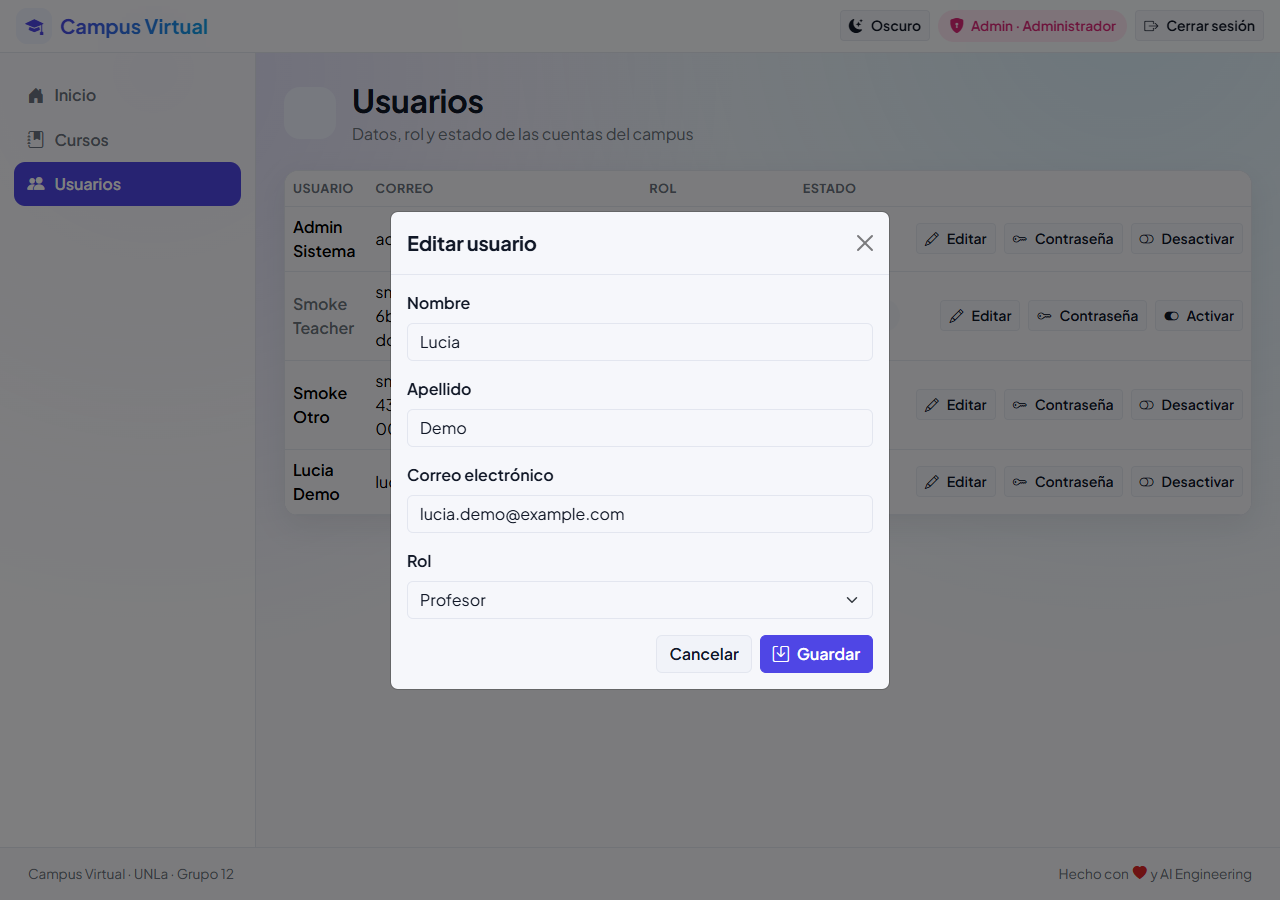
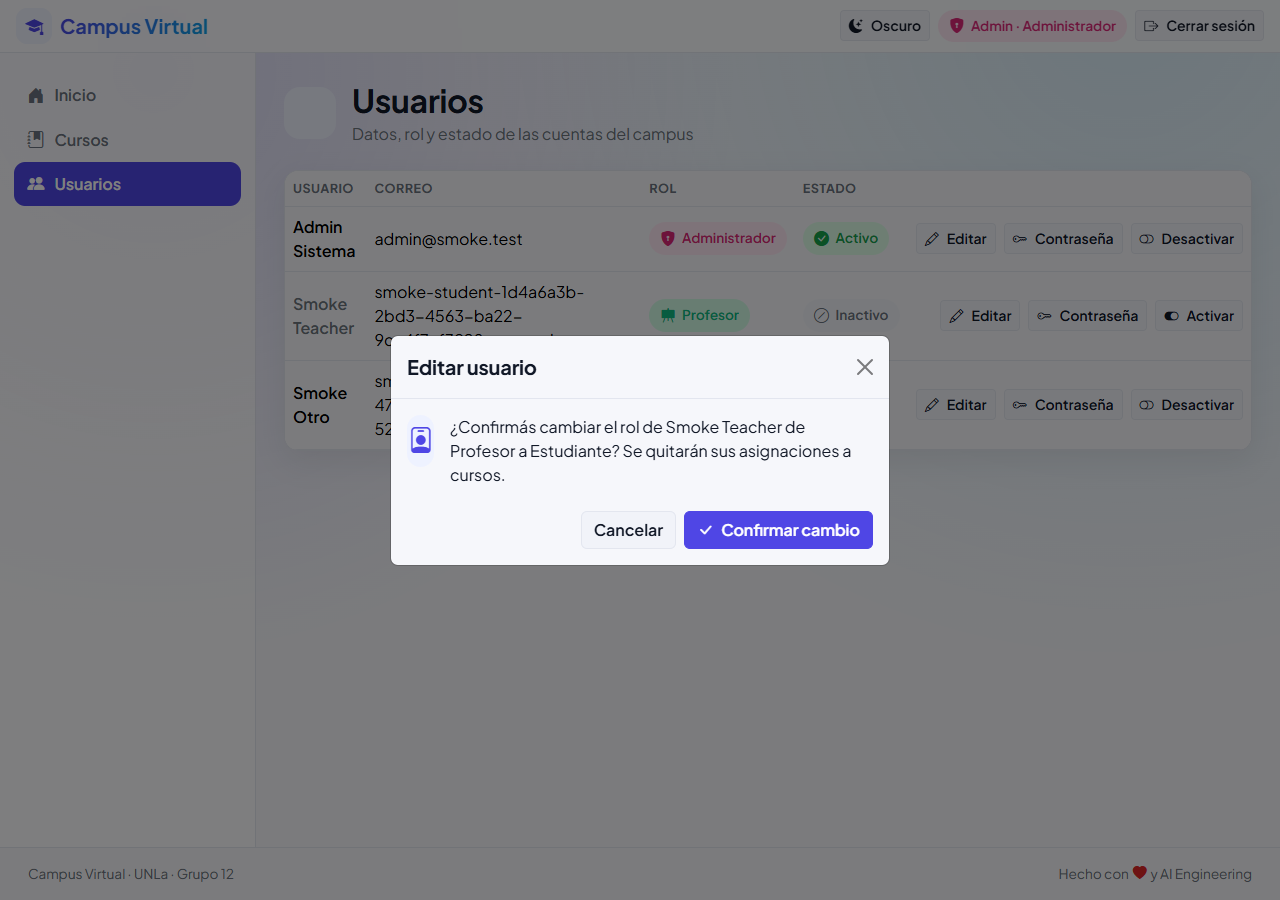
fix(cu-04): confirm role change inline and clear course assignments on demote

diff --git a/frontend/src/features/users/UserForm.jsx b/frontend/src/features/users/UserForm.jsx
@@ -9,6 +9,10 @@ const ROLES = [
   { value: "admin", label: "Administrador" },
 ];
 
+function roleLabel(value) {
+  return ROLES.find((role) => role.value === value)?.label ?? value;
+}
+
 function toForm(user) {
   return {
     first_name: user.first_name,
@@ -22,14 +26,21 @@ export default function UserForm({ user, onSaved, onCancel }) {
   const [form, setForm] = useState(() => toForm(user));
   const [error, setError] = useState("");
   const [submitting, setSubmitting] = useState(false);
+  const [confirming, setConfirming] = useState(false);
+
+  const roleChanged = form.role !== user.role;
+  const demotingTeacher = user.role === "teacher" && form.role !== "teacher";
+  const confirmationMessage =
+    `¿Confirmás cambiar el rol de ${user.first_name} ${user.last_name} de ` +
+    `${roleLabel(user.role)} a ${roleLabel(form.role)}?` +
+    (demotingTeacher ? " Se quitarán sus asignaciones a cursos." : "");
 
   function handleChange(event) {
     const { name, value } = event.target;
     setForm((previous) => ({ ...previous, [name]: value }));
   }
 
-  async function handleSubmit(event) {
-    event.preventDefault();
+  async function persist() {
     setError("");
     setSubmitting(true);
     try {
@@ -37,9 +48,64 @@ export default function UserForm({ user, onSaved, onCancel }) {
       onSaved(saved);
     } catch (requestError) {
       setError(requestError.message);
+      setConfirming(false);
     } finally {
       setSubmitting(false);
     }
+  }
+
+  function handleSubmit(event) {
+    event.preventDefault();
+    if (roleChanged) {
+      setConfirming(true);
+      return;
+    }
+    persist();
+  }
+
+  const errorAlert = error ? (
+    <div className="alert alert-danger py-2" role="alert" data-testid="user-form-error">
+      {error}
+    </div>
+  ) : null;
+
+  if (confirming) {
+    return (
+      <div data-testid="user-role-confirm">
+        <div className="d-flex align-items-start gap-3 mb-4">
+          <span
+            className="auth-brand__icon"
+            style={{ background: "var(--campus-brand-soft)", color: "var(--campus-brand)" }}
+            aria-hidden="true"
+          >
+            <i className="bi bi-person-badge" />
+          </span>
+          <p className="mb-0">{confirmationMessage}</p>
+        </div>
+
+        {errorAlert}
+
+        <div className="d-flex justify-content-end gap-2">
+          <Button
+            variant="soft"
+            onClick={() => setConfirming(false)}
+            disabled={submitting}
+            data-testid="user-role-confirm-cancel"
+          >
+            Cancelar
+          </Button>
+          <Button
+            variant="brand"
+            icon="check-lg"
+            onClick={persist}
+            disabled={submitting}
+            data-testid="user-role-confirm-accept"
+          >
+            {submitting ? "Guardando..." : "Confirmar cambio"}
+          </Button>
+        </div>
+      </div>
+    );
   }
 
   return (
@@ -92,11 +158,7 @@ export default function UserForm({ user, onSaved, onCancel }) {
         </select>
       </FormField>
 
-      {error && (
-        <div className="alert alert-danger py-2" role="alert" data-testid="user-form-error">
-          {error}
-        </div>
-      )}
+      {errorAlert}
 
       <div className="d-flex justify-content-end gap-2">
         <Button variant="soft" onClick={onCancel} disabled={submitting}>

diff --git a/backend/tests/test_course_teachers.py b/backend/tests/test_course_teachers.py
@@ -142,3 +142,24 @@ def test_remove_teacher_missing_course(client, app):
     _login_as(client, app, ADMIN, UserRole.ADMIN)
     response = client.delete("/api/courses/9999/teachers/1")
     assert response.status_code == 404
+
+
+def test_demoting_teacher_clears_course_assignments(client, app):
+    _login_as(client, app, ADMIN, UserRole.ADMIN)
+    course_id = _seed_course(app)
+    teacher_id = _create_user(app, TEACHER, UserRole.TEACHER)
+    client.post(f"/api/courses/{course_id}/teachers", json={"teacher_id": teacher_id})
+
+    demote = client.put(
+        f"/api/users/{teacher_id}",
+        json={
+            "first_name": "Nombre",
+            "last_name": "Apellido",
+            "email": TEACHER["email"],
+            "role": "student",
+        },
+    )
+    assert demote.status_code == 200
+
+    listed = client.get(f"/api/courses/{course_id}/teachers")
+    assert listed.get_json() == []

diff --git a/backend/services/user_service.py b/backend/services/user_service.py
@@ -5,6 +5,7 @@ from werkzeug.security import generate_password_hash
 
 from models.base import db
 from models.user import User, UserRole
+from services.course_teacher_service import clear_teacher_assignments
 from services.errors import ConflictError, NotFoundError, ValidationError
 
 EMAIL_PATTERN = re.compile(r"^[^@\s]+@[^@\s]+\.[^@\s]+$")
@@ -106,10 +107,14 @@ def update_user(user_id, data, current_user=None):
     if _email_in_use(email, exclude_id=user.id):
         raise ConflictError("El correo electrónico ya está registrado")
 
+    demoting_teacher = user.role == UserRole.TEACHER and role != UserRole.TEACHER
+
     user.first_name = first_name
     user.last_name = last_name
     user.email = email
     user.role = role
+    if demoting_teacher:
+        clear_teacher_assignments(user.id)
     try:
         db.session.commit()
     except IntegrityError:

diff --git a/backend/services/course_teacher_service.py b/backend/services/course_teacher_service.py
@@ -30,11 +30,23 @@ def list_teachers(course_id):
             db.select(User)
             .join(CourseTeacher, CourseTeacher.teacher_id == User.id)
             .where(CourseTeacher.course_id == course_id)
+            .where(User.role == UserRole.TEACHER)
             .order_by(User.id)
         )
         .scalars()
         .all()
     )
+
+
+def clear_teacher_assignments(teacher_id):
+    links = (
+        db.session.execute(db.select(CourseTeacher).where(CourseTeacher.teacher_id == teacher_id))
+        .scalars()
+        .all()
+    )
+    for link in links:
+        db.session.delete(link)
+    return len(links)
 
 
 def assign_teacher(course_id, teacher_id):

diff --git a/reviews/cu-04.md b/reviews/cu-04.md
@@ -6,16 +6,18 @@
 
 ## Veredicto
 
-**APROBADO** — sin hallazgos bloqueantes. El CU cumple el flujo principal, los alternativos y las reglas de negocio de `casos_de_uso.md` y `AGENTS.md`, con evidencia verificable. Quedan dos hallazgos de severidad Media como mejoras no bloqueantes.
+**APROBADO** — sin hallazgos bloqueantes. El CU cumple el flujo principal, los alternativos y las reglas de negocio de `casos_de_uso.md` y `AGENTS.md`, con evidencia verificable.
+
+Los dos hallazgos de severidad Media detectados en la revisión inicial **fueron resueltos el 2026-10-11** (paso de confirmación al cambiar el rol y limpieza de asignaciones al degradar un Profesor). La suite pasó de `90 passed` a `91 passed`; el smoke se mantiene `21/21 PASS`. Los dos hallazgos de severidad Baja (#3, #4) quedan documentados como contrato, sin cambio de código.
 
 ## Hallazgos
 
-| # | Archivo:línea | Severidad | Descripción |
-|---|---------------|-----------|-------------|
-| 1 | `frontend/src/features/users/UserForm.jsx:78-93` | Media | El alternativo A1/A2 de `casos_de_uso.md` pide que el sistema **solicite confirmación** al asignar/cambiar el rol (Profesor↔Estudiante). La UI cambia el rol en el `<select>` y lo persiste al pulsar "Guardar" (`PUT /api/users/<id>`), sin un paso de confirmación explícito; el `ConfirmDialog` solo se usa para activar/desactivar. No se viola ninguna regla (la asignación del rol Profesor es del Administrador y se mantiene exactamente un rol), pero el paso de confirmación del flujo alternativo no está implementado como tal. |
-| 2 | `backend/services/user_service.py:98-118` + `backend/services/course_teacher_service.py:26-37` | Media | Al cambiar el rol de Profesor a Estudiante, el registro en `course_teacher` no se elimina y `list_teachers` no filtra por rol, por lo que el usuario degradado sigue apareciendo como profesor del curso. No rompe la autorización (los endpoints de profesores exigen Administrador) pero deja una asignación inconsistente con el nuevo rol. |
-| 3 | `backend/services/user_service.py:98-118` | Baja | `update_user` exige `role` en el cuerpo (semántica PUT de reemplazo total): un cliente que omita `role` recibe `400 "El rol es inválido"`. Es consistente con `update_course`; se documenta el contrato. |
-| 4 | `backend/services/user_service.py:132-137` | Baja | `reset_password` no recibe `current_user` (a diferencia de `update_user`/`set_user_active`). No hay regla que prohíba que un Administrador resetee su propia contraseña, así que no es un defecto; solo una asimetría de firma. |
+| # | Archivo:línea | Severidad | Descripción | Estado |
+|---|---------------|-----------|-------------|--------|
+| 1 | `frontend/src/features/users/UserForm.jsx` | Media | El alternativo A1/A2 de `casos_de_uso.md` pide que el sistema **solicite confirmación** al asignar/cambiar el rol (Profesor↔Estudiante). La UI cambiaba el rol en el `<select>` y lo persistía al pulsar "Guardar" (`PUT /api/users/<id>`), sin un paso de confirmación explícito; el `ConfirmDialog` solo se usaba para activar/desactivar. | **Resuelto** — `UserForm` ahora muestra un paso de confirmación inline (`data-testid="user-role-confirm"`) cuando el rol difiere del original; recién al pulsar "Confirmar cambio" (`user-role-confirm-accept`) se ejecuta el `PUT`. Mensaje con los roles de origen/destino y, en la degradación, la nota "Se quitarán sus asignaciones a cursos". Evidencia `04-cambio-rol.png`. |
+| 2 | `backend/services/user_service.py` + `backend/services/course_teacher_service.py` | Media | Al cambiar el rol de Profesor a Estudiante, el registro en `course_teacher` no se eliminaba y `list_teachers` no filtraba por rol, por lo que el usuario degradado seguía apareciendo como profesor del curso. | **Resuelto** — `update_user` detecta la degradación (`Teacher → no Teacher`) y llama a `clear_teacher_assignments` (borra las filas de `course_teacher`, misma transacción que el commit); además `list_teachers` filtra `User.role == UserRole.TEACHER` como defensa en profundidad. Test `test_demoting_teacher_clears_course_assignments`. |
+| 3 | `backend/services/user_service.py:98-118` | Baja | `update_user` exige `role` en el cuerpo (semántica PUT de reemplazo total): un cliente que omita `role` recibe `400 "El rol es inválido"`. Es consistente con `update_course`; se documenta el contrato. | Sin cambio (documentado). |
+| 4 | `backend/services/user_service.py:132-137` | Baja | `reset_password` no recibe `current_user` (a diferencia de `update_user`/`set_user_active`). No hay regla que prohíba que un Administrador resetee su propia contraseña, así que no es un defecto; solo una asimetría de firma. | Sin cambio (documentado). |
 
 Sin observaciones de seguridad: no hay secretos ni credenciales en el código, `password_hash` nunca se serializa en las respuestas (`blueprints/users.py:17-26`), y la cuenta inactiva no se autentica ni mantiene sesión (`services/auth_service.py:19-32`).
 
@@ -45,13 +47,16 @@ Sin observaciones de seguridad: no hay secretos ni credenciales en el código, `
 
 ## Mapa de evidencia
 
-- **Tests:** `pytest` → `90 passed` (`backend/tests/test_users.py`, `test_course_teachers.py`, `test_migrations.py` + suite previa).
+- **Tests:** `pytest` → `91 passed` (`backend/tests/test_users.py`, `test_course_teachers.py`, `test_migrations.py` + suite previa; incluye `test_demoting_teacher_clears_course_assignments` incorporado al resolver el hallazgo 2).
 - **Lint/format:** `ruff check backend`/`ruff format --check backend` OK; Prettier `--check` OK.
 - **Build:** `npm run build` OK.
 - **Smoke e2e:** `scripts/verify.py --cu cu04` → `Smoke CU-04: 21/21 PASS` (DB temporal aislada, migrada y sembrada; cleanup garantizado).
-- **UI (Playwright):** `evidencias/cu-04/` — `01-login.png`, `02-listado-usuarios.png`, `03-edicion-usuario.png`, `04-cambio-rol.png`, `05-asignacion-profesor.png`, `06-reset-password.png`, `07-desactivado.png`, `08-error-autogestion.png`, `09-listado-oscuro.png` (tema claro y oscuro). Consola: solo `401 /api/auth/me` (sonda de sesión sin cookie) y el `400 PUT /api/users/1` intencional de la autogestión; sin errores inesperados.
+- **UI (Playwright):** `evidencias/cu-04/` — `01-login.png`, `02-listado-usuarios.png`, `03-edicion-usuario.png`, `04-cambio-rol.png`, `05-asignacion-profesor.png`, `06-reset-password.png`, `07-desactivado.png`, `08-error-autogestion.png`, `09-listado-oscuro.png` (tema claro y oscuro). `04-cambio-rol.png` re-capturado para mostrar el paso de confirmación inline ("¿Confirmás cambiar el rol de … de Profesor a Estudiante? Se quitarán sus asignaciones a cursos."). Consola: solo `401 /api/auth/me` (sonda de sesión sin cookie) y el `400 PUT /api/users/1` intencional de la autogestión; sin errores inesperados (0 errores desde la última navegación durante el flujo de cambio de rol).
 - **Bug detectado durante el smoke y corregido:** `scripts/smoke_cu04.py` pasaba el opener como `body` posicional en los `request(...)` de `DELETE`, lo que rompía "quitar profesor"; corregido a `opener=admin`.
+- **Bug detectado al resolver el hallazgo 1 y corregido:** la primera implementación del paso de confirmación reutilizaba `ConfirmDialog` (un `Modal` de Bootstrap) anidado dentro del `Modal` de edición, lo que producía un error de consola (`TypeError: Cannot read properties of null (reading 'style')` en `Modal._hideModal` de Bootstrap). Se reemplazó por una confirmación **inline** dentro del mismo modal (un único modal Bootstrap), sin anidamiento y sin error de consola.
 
 ## Notas para el próximo CU
 
-- Considerar un paso de confirmación explícito al cambiar el rol (hallazgo 1) y limpiar `course_teacher` al degradar un Profesor (hallazgo 2). Ninguno bloquea el cierre de CU-04.
+- Hallazgos 1 y 2 (Media) resueltos el 2026-10-11; hallazgos 3 y 4 (Baja) quedan documentados como contrato sin cambio de código.
+- Patrón a tener en cuenta en el frontend: **no anidar dos `Modal` de Bootstrap** (el `ConfirmDialog` reutiliza `Modal`); para confirmaciones dentro de un formulario ya modal, usar un paso de confirmación inline.
+- Pendiente CU-05 (Gestionar inscripciones): `casos_de_uso.md` — Administrador/Profesor; respetar la regla "un Profesor solo opera sobre los cursos en los que trabaja".

diff --git a/errores.md b/errores.md
@@ -91,3 +91,15 @@ Formato de cada entrada:
 - **Solución aplicada:** revisión equivalente inline por el orquestador (skill `review-use-case`) sobre el cambio `add-user-management` → sin bloqueantes (APROBADO), persistida en `reviews/cu-04.md`.
 - **Verificación posterior:** `pytest` 90 passed, `ruff`/Prettier OK, `npm run build` OK, smoke CU-04 21/21 PASS y 9 screenshots de evidencia verificables.
 - **Estado final:** Resuelto (se cierra con revisión inline; el subagente `reviewer` queda pendiente de tier del proveedor).
+
+## 2026-10-11 — Error de consola al anidar dos `Modal` de Bootstrap (ConfirmDialog dentro del formulario modal)
+
+- **Fecha:** 2026-10-11.
+- **Error exacto:** `TypeError: Cannot read properties of null (reading 'style')` en `Modal._hideModal` (`bootstrap/js/dist/modal.js`), disparado al cerrar el modal interno.
+- **Contexto:** post-cierre de CU-04, al resolver el hallazgo 1 de la revisión (paso de confirmación al cambiar el rol). La primera implementación renderizaba `ConfirmDialog` (que envuelve un `Modal` de Bootstrap) **anidado** dentro del `Modal` de edición de `UsersPage`.
+- **Causa probable (confirmada):** los modales apilados de Bootstrap 5 comparten el manejo de `document.body` y del elemento; al ocultar el modal interno mientras el externo sigue visible, `_hideModal` lee `this._element.style` sobre un elemento ya nulo. No es un defecto del código propio, sino del patrón de anidamiento.
+- **Archivos involucrados:** `frontend/src/features/users/UserForm.jsx` (uso de `ConfirmDialog` anidado).
+- **Diagnóstico:** reproducir el cambio de rol en la UI con Playwright y leer la consola (`browser_console_messages`): el error aparece exactamente al cerrar el diálogo interno; antes del cambio (sin anidamiento) la consola estaba limpia.
+- **Solución aplicada:** reemplazar el `ConfirmDialog` anidado por un paso de confirmación **inline** dentro del mismo `Modal` (`data-testid="user-role-confirm"`, botones `user-role-confirm-cancel`/`-accept`), reutilizando `Button` y los tokens del design system. Un único modal por flujo.
+- **Verificación posterior:** flujo de cambio de rol (Profesor↔Estudiante) ejecutado en Playwright → la consola reporta **0 errores desde la última navegación**; `npm run build`/Prettier OK; evidencia `evidencias/cu-04/04-cambio-rol.png` re-capturada.
+- **Estado final:** Resuelto (regla: no anidar dos `Modal` de Bootstrap; usar confirmación inline dentro de un formulario modal).
